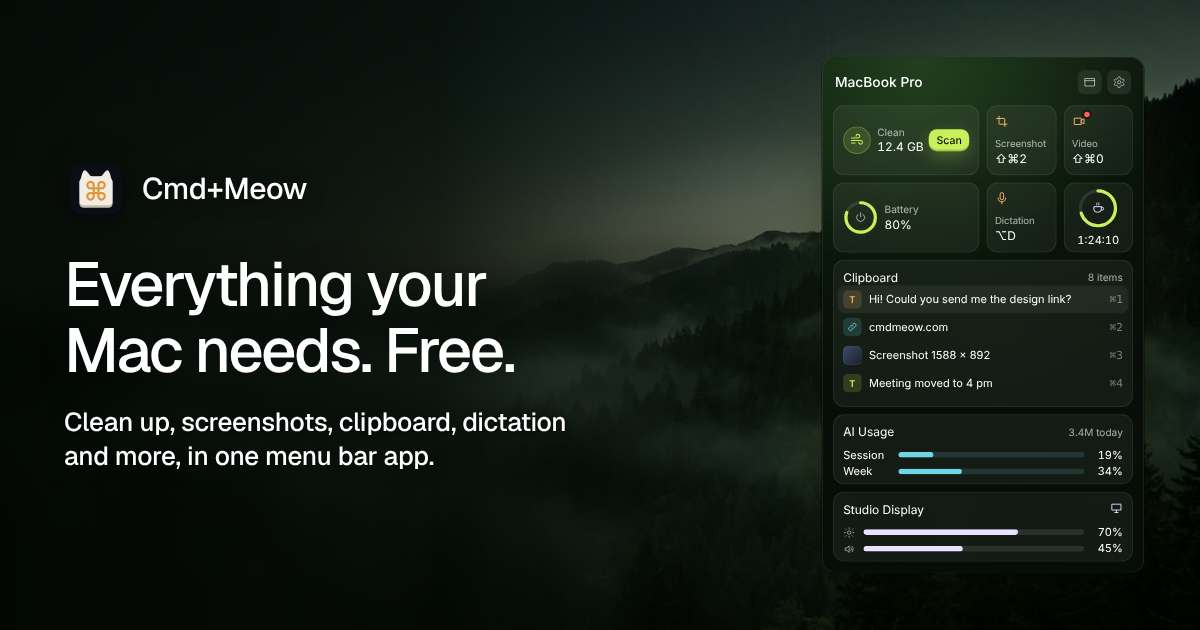
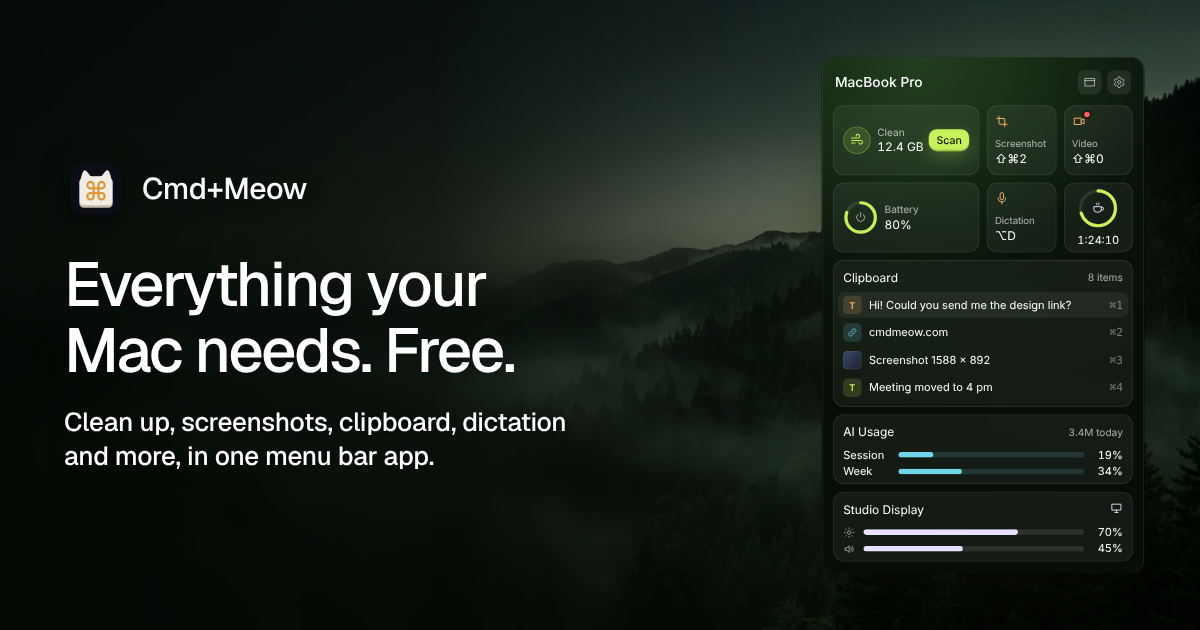
Site hero panel: Clipboard header gets the same 8px gap as the other widgets
Claude-Session: https://claude.ai/code/session_01384rfUvGjRvQfkWDC1s1ix

Changed region(s): [[0.6783, 0.4524, 0.8942, 0.6333], [0.925, 0.6032, 0.9558, 0.6333], [0.925, 0.5127, 0.9558, 0.5429]]

diff --git a/site/win.css b/site/win.css
@@ -456,7 +456,7 @@
 .pw .act.sm { flex: none; height: 24px; padding: 0 8px; font-size: 11.5px; }
 .pw .tr { flex: none; }
 .pw.aw { align-items: center; justify-content: center; gap: 4px; } .pw.aw .rg > .i { color: var(--lav); } .pw.aw b { font-size: 12px; }
-.clp { display: flex; flex-direction: column; gap: 2px; } .clp .kh { margin-bottom: 2px; }
+.clp { display: flex; flex-direction: column; }
 .pcr { display: flex; align-items: center; gap: 8px; height: 30px; padding: 0 6px; border-radius: 8px; font-size: 12px; }
 .pcr:nth-child(2) { background: rgba(255,255,255,.06); }
 .ct { flex: none; display: grid; place-items: center; width: 20px; height: 20px; border-radius: 5px; font-size: 10px; font-weight: 600; color: var(--g); background: color-mix(in srgb, var(--g) 16%, transparent); }
@@ -662,6 +662,8 @@
 /* Hero panel spacing: header then rows, same rhythm in Clipboard, AI Usage and Display */
 .clp, .lim, .dsp { justify-content: space-between; gap: 0; } .clp .kh, .lim .kh, .dsp .kh { margin: 0; align-items: center; }
 .clp, .lim, .dsp { padding: 10px; } .clp .kh, .lim .kh, .dsp .kh { height: 16px; line-height: 16px; }
+/* Clipboard: same 8px header gap as AI Usage, four rows packed evenly */
+.clp { justify-content: flex-start; gap: 2px; } .clp .kh { flex: none; margin-bottom: 6px; } .clp .pcr { flex: none; height: 28px; }
 .pcr { margin: 0 -6px; } .pcr .ct { padding: 0; gap: 0; }
 .lim, .dsp { justify-content: flex-start; } .lim .kh, .dsp .kh { margin-bottom: 8px; } .lim .lr + .lr, .dsp .lr + .lr { margin-top: 4px; } .lim .lr, .dsp .lr { height: 14px; }
 .pw .pi { align-self: flex-start; }

diff --git a/site/index.html b/site/index.html
@@ -20,9 +20,9 @@
 <link rel="preconnect" href="https://fonts.googleapis.com">
 <link rel="preconnect" href="https://fonts.gstatic.com" crossorigin>
 <link rel="stylesheet" href="https://fonts.googleapis.com/css2?family=Geist:wght@400;500;600&display=swap">
-<link rel="stylesheet" href="app.css?v=83">
-<link rel="stylesheet" href="style.css?v=83">
-<link rel="stylesheet" href="win.css?v=83">
+<link rel="stylesheet" href="app.css?v=84">
+<link rel="stylesheet" href="style.css?v=84">
+<link rel="stylesheet" href="win.css?v=84">
 <link rel="preload" as="image" href="desk.jpg" imagesrcset="desk-1376.jpg 1376w, desk.jpg 2752w" imagesizes="100vw">
 </head>
 <body>
@@ -76,7 +76,7 @@
 <symbol id="mark-line" viewBox="0 0 100 100"><g fill="none" stroke="currentColor" stroke-width="7" stroke-linejoin="round"><path d="M16 34C18 22 23 12 27 11C30 10 34 16 38 22M84 34C82 22 77 12 73 11C70 10 66 16 62 22"/><rect x="14" y="22" width="72" height="68" rx="16"/></g>
 <path d="M42 44V72M58 44V72M36 50H64M36 66H64M42 44A6 6 0 1 0 36 50M58 44A6 6 0 1 1 64 50M36 66A6 6 0 1 0 42 72M64 66A6 6 0 1 1 58 72" fill="none" stroke="currentColor" stroke-width="7" stroke-linecap="round"/></symbol>
 </defs></svg>
-<script src="site.js?v=83"></script>
-<script src="play.js?v=83"></script>
+<script src="site.js?v=84"></script>
+<script src="play.js?v=84"></script>
 </body>
 </html>
